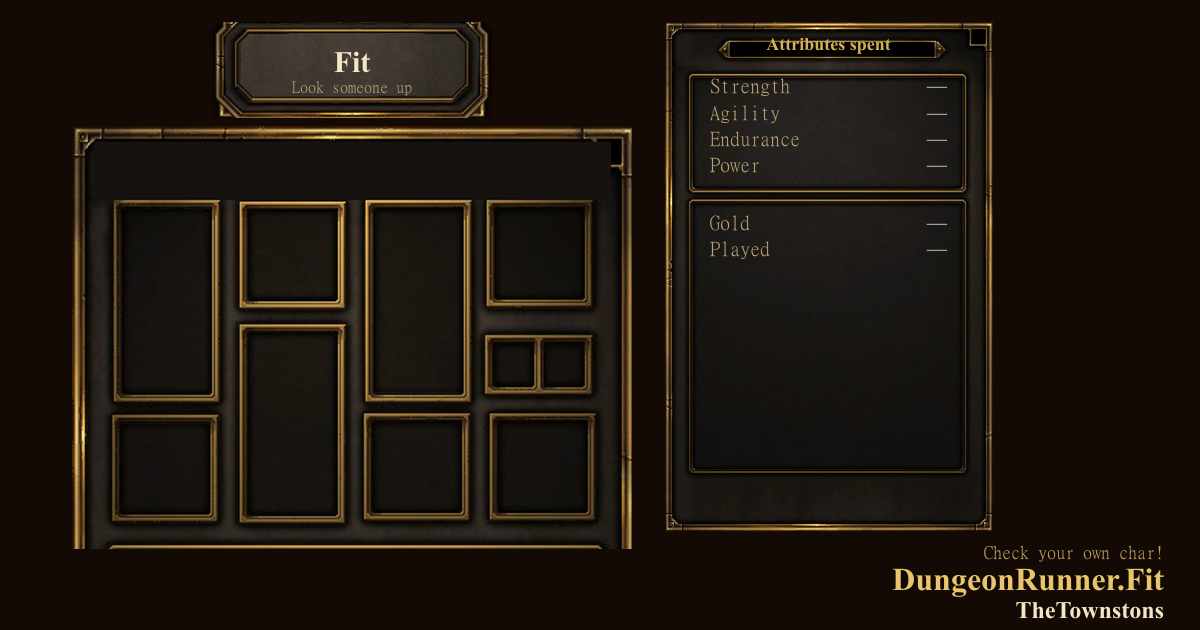
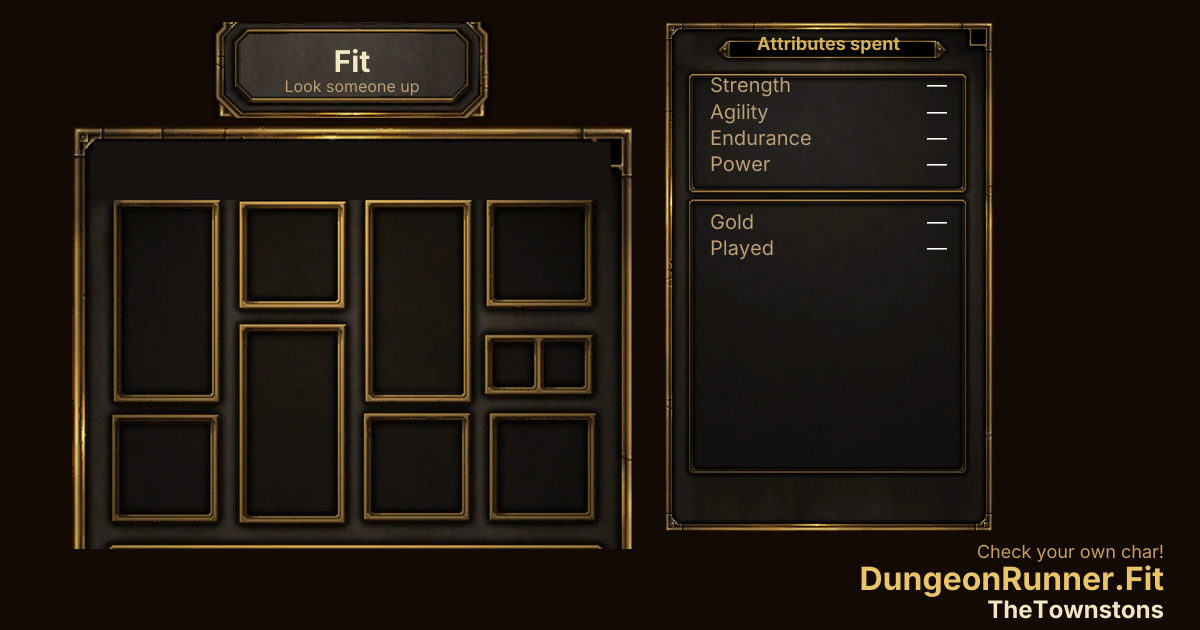
Draw Fit OG type as outlines so Vercel Sharp does not need fonts.
librsvg on the serverless image ignores @font-face, which is why Discord still got tofu after the Inter embed.

diff --git a/server/utils/fit-og.ts b/server/utils/fit-og.ts
@@ -1,5 +1,6 @@
 import { readFile } from 'node:fs/promises'
 import { join } from 'node:path'
+import { parse as parseOpenType } from 'opentype.js'
 import { FIT_OG_VERSION, GEAR_SLOTS } from '#shared/fit'
 import { formatGold, formatPlayed } from '#shared/fit-xp'
 import { presentCharacter, type FitItemView } from './fit'
@@ -73,16 +74,6 @@ async function readPublic(rel: string): Promise<Buffer | null> {
   }
 }
 
-function escapeXml(text: string) {
-  return text.replace(/[&<>"']/g, (ch) => ({
-    '&': '&amp;',
-    '<': '&lt;',
-    '>': '&gt;',
-    '"': '&quot;',
-    "'": '&apos;',
-  }[ch] || ch))
-}
-
 function iconRel(icon: string | null | undefined) {
   if (!icon) return null
   const path = icon.replace(/^\//, '').split('?')[0]
@@ -96,27 +87,58 @@ async function withOpacity(sharp: typeof import('sharp'), input: Buffer, opacity
   return sharp(data, { raw: { width: info.width, height: info.height, channels: 4 } }).png().toBuffer()
 }
 
-async function fitFontCss() {
+type OgFont = ReturnType<typeof parseOpenType>
+let ogFonts: { regular: OgFont, bold: OgFont } | null = null
+
+function fontFromBuffer(buf: Buffer) {
+  const copy = buf.buffer.slice(buf.byteOffset, buf.byteOffset + buf.byteLength)
+  return parseOpenType(copy)
+}
+
+async function readFontBytes(name: string): Promise<Buffer | null> {
+  try {
+    const raw = await useStorage('assets:fit-fonts').getItemRaw(name)
+    if (raw) return Buffer.from(raw as ArrayBuffer)
+  }
+  catch {
+    // public/ fallback
+  }
+  return readPublic(`fit/fonts/${name}`)
+}
+
+async function loadOgFonts() {
+  if (ogFonts) return ogFonts
   const [regular, bold] = await Promise.all([
-    readPublic('fit/fonts/Inter-Regular.ttf'),
-    readPublic('fit/fonts/Inter-Bold.ttf'),
+    readFontBytes('Inter-Regular.ttf'),
+    readFontBytes('Inter-Bold.ttf'),
   ])
   if (!regular || !bold) throw new Error('Fit OG fonts missing')
-  return `
-    @font-face {
-      font-family: 'FitOg';
-      font-weight: 400;
-      font-style: normal;
-      src: url('data:font/ttf;base64,${regular.toString('base64')}') format('truetype');
-    }
-    @font-face {
-      font-family: 'FitOg';
-      font-weight: 700;
-      font-style: normal;
-      src: url('data:font/ttf;base64,${bold.toString('base64')}') format('truetype');
-    }
-    text { font-family: 'FitOg', sans-serif; }
-  `
+  ogFonts = { regular: fontFromBuffer(regular), bold: fontFromBuffer(bold) }
+  return ogFonts
+}
+
+function textPath(
+  font: OgFont,
+  text: string,
+  x: number,
+  y: number,
+  size: number,
+  fill: string,
+  anchor: 'start' | 'middle' | 'end' = 'start',
+) {
+  const scale = size / (font.unitsPerEm || 1000)
+  const glyphs = Array.from(text).map((ch) => font.charToGlyph(ch))
+  const width = glyphs.reduce((sum, glyph) => sum + (glyph.advanceWidth || 0) * scale, 0)
+  let cursor = x
+  if (anchor === 'middle') cursor = x - width / 2
+  if (anchor === 'end') cursor = x - width
+  return glyphs.map((glyph) => {
+    const path = glyph.getPath(cursor, y, size, {}, font)
+    path.fill = fill
+    const svg = path.toSVG(1)
+    cursor += (glyph.advanceWidth || 0) * scale
+    return svg
+  }).join('')
 }
 
 export function isCurrentOg(
@@ -180,7 +202,7 @@ export async function renderFitOgPng(view: FitOgView): Promise<Buffer> {
   const bySlot = view.bySlot || {}
   const subtitle = view.subtitle ?? `Level ${view.level} ${view.classLabel}`
   const nameSize = view.name.length > 18 ? 22 : view.name.length > 13 ? 26 : 30
-  const fonts = await fitFontCss()
+  const fonts = await loadOgFonts()
 
   const equipLayers = (await Promise.all(GEAR_SLOTS.map(async (slot) => {
     const box = SLOT_BOX[slot.key]
@@ -228,26 +250,25 @@ export async function renderFitOgPng(view: FitOgView): Promise<Buffer> {
   const valueX = statsX + statsW * 0.86
   const attrSvg = attrRows.map((row, i) => {
     const y = Math.round(attrTop + attrH * (i + 0.5) / attrN)
-    return `
-      <text x="${labelX}" y="${y}" font-size="20" fill="#b9a078">${escapeXml(row.label)}</text>
-      <text x="${valueX}" y="${y}" text-anchor="end" font-size="20" fill="#ffffff">${escapeXml(row.value == null ? '—' : String(row.value))}</text>`
+    const value = row.value == null ? '—' : String(row.value)
+    return `${textPath(fonts.regular, row.label, labelX, y, 20, '#b9a078')}
+      ${textPath(fonts.regular, value, valueX, y, 20, '#ffffff', 'end')}`
   }).join('')
   const metaY1 = Math.round(statsY + statsH * 0.405)
   const metaY2 = Math.round(statsY + statsH * 0.455)
   const overlay = Buffer.from(`<?xml version="1.0" encoding="UTF-8"?>
     <svg width="${OG_WIDTH}" height="${OG_HEIGHT}" viewBox="0 0 ${OG_WIDTH} ${OG_HEIGHT}" xmlns="http://www.w3.org/2000/svg">
-      <defs><style><![CDATA[${fonts}]]></style></defs>
-      <text x="${nameCx}" y="${nameplateY + 50}" text-anchor="middle" font-size="${nameSize}" font-weight="700" fill="#f3e6c4">${escapeXml(view.name)}</text>
-      <text x="${nameCx}" y="${nameplateY + 70}" text-anchor="middle" font-size="16" fill="#b9a078">${escapeXml(subtitle)}</text>
-      <text x="${statsX + statsW / 2}" y="${Math.round(statsY + statsH * 0.054)}" text-anchor="middle" font-size="18" font-weight="700" fill="#d4b056">Attributes spent</text>
+      ${textPath(fonts.bold, view.name, nameCx, nameplateY + 50, nameSize, '#f3e6c4', 'middle')}
+      ${textPath(fonts.regular, subtitle, nameCx, nameplateY + 70, 16, '#b9a078', 'middle')}
+      ${textPath(fonts.bold, 'Attributes spent', statsX + statsW / 2, Math.round(statsY + statsH * 0.054), 18, '#d4b056', 'middle')}
       ${attrSvg}
-      <text x="${labelX}" y="${metaY1}" font-size="20" fill="#b9a078">Gold</text>
-      <text x="${valueX}" y="${metaY1}" text-anchor="end" font-size="20" fill="#ffffff">${escapeXml(formatGold(view.gold))}</text>
-      <text x="${labelX}" y="${metaY2}" font-size="20" fill="#b9a078">Played</text>
-      <text x="${valueX}" y="${metaY2}" text-anchor="end" font-size="20" fill="#ffffff">${escapeXml(formatPlayed(view.playedSeconds))}</text>
-      <text x="${OG_WIDTH - 36}" y="${OG_HEIGHT - 72}" text-anchor="end" font-size="18" fill="#c4a060">Check your own char!</text>
-      <text x="${OG_WIDTH - 36}" y="${OG_HEIGHT - 40}" text-anchor="end" font-size="32" font-weight="700" fill="#e8c56b">DungeonRunner.Fit</text>
-      <text x="${OG_WIDTH - 36}" y="${OG_HEIGHT - 12}" text-anchor="end" font-size="24" font-weight="700" fill="#f3e6c4">TheTownstons</text>
+      ${textPath(fonts.regular, 'Gold', labelX, metaY1, 20, '#b9a078')}
+      ${textPath(fonts.regular, formatGold(view.gold), valueX, metaY1, 20, '#ffffff', 'end')}
+      ${textPath(fonts.regular, 'Played', labelX, metaY2, 20, '#b9a078')}
+      ${textPath(fonts.regular, formatPlayed(view.playedSeconds), valueX, metaY2, 20, '#ffffff', 'end')}
+      ${textPath(fonts.regular, 'Check your own char!', OG_WIDTH - 36, OG_HEIGHT - 72, 18, '#c4a060', 'end')}
+      ${textPath(fonts.bold, 'DungeonRunner.Fit', OG_WIDTH - 36, OG_HEIGHT - 40, 32, '#e8c56b', 'end')}
+      ${textPath(fonts.bold, 'TheTownstons', OG_WIDTH - 36, OG_HEIGHT - 12, 24, '#f3e6c4', 'end')}
     </svg>
   `)
 

diff --git a/shared/fit.ts b/shared/fit.ts
@@ -5,7 +5,7 @@ export const FIT_HOSTS = [
 
 export const WIKI_ORIGIN = 'https://www.thetownstons.com'
 export const FIT_ORIGIN = 'https://fit.thetownstons.com'
-export const FIT_OG_VERSION = 2
+export const FIT_OG_VERSION = 3
 
 export function hostName(host: string): string {
   return String(host || '').split(':')[0].trim().toLowerCase()

diff --git a/nuxt.config.ts b/nuxt.config.ts
@@ -32,6 +32,9 @@ export default defineNuxtConfig({
       failOnError: false,
       routes: ['/'],
     },
+    serverAssets: [
+      { baseName: 'fit-fonts', dir: 'public/fit/fonts' },
+    ],
     vercel: {
       functions: {
         maxDuration: 300,
